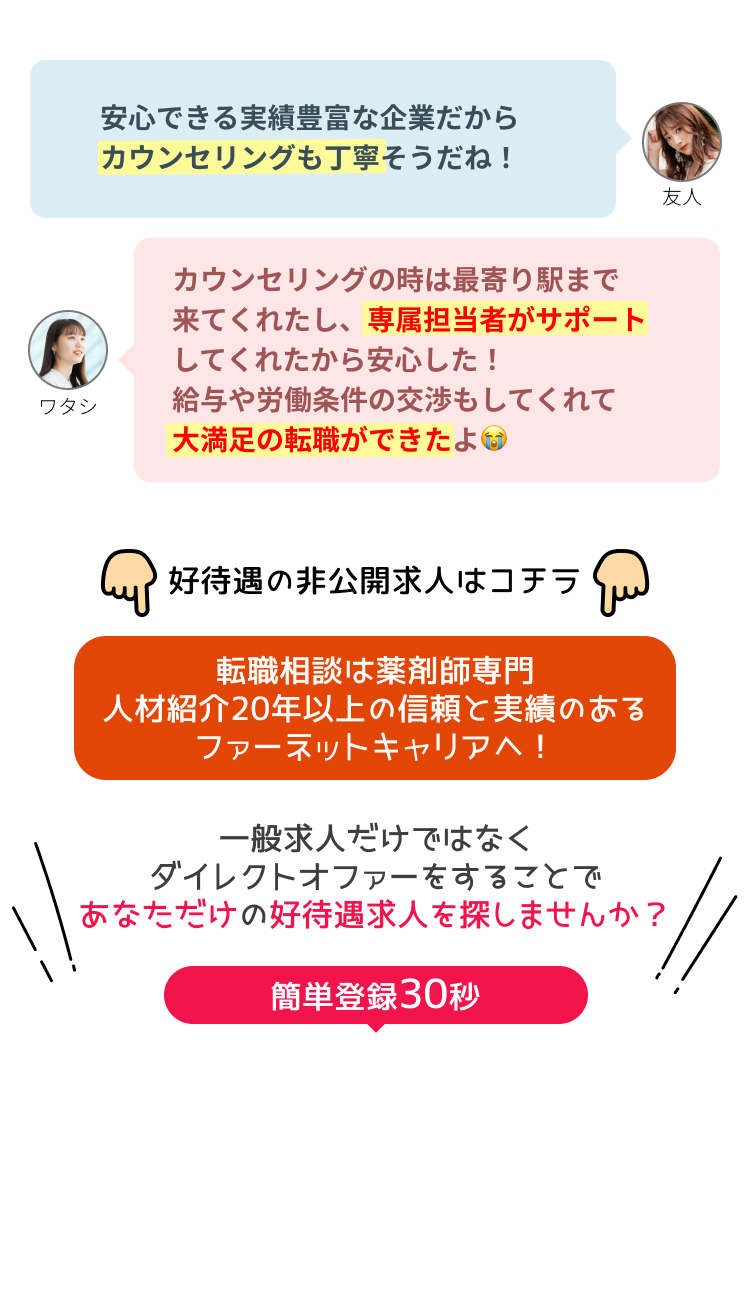
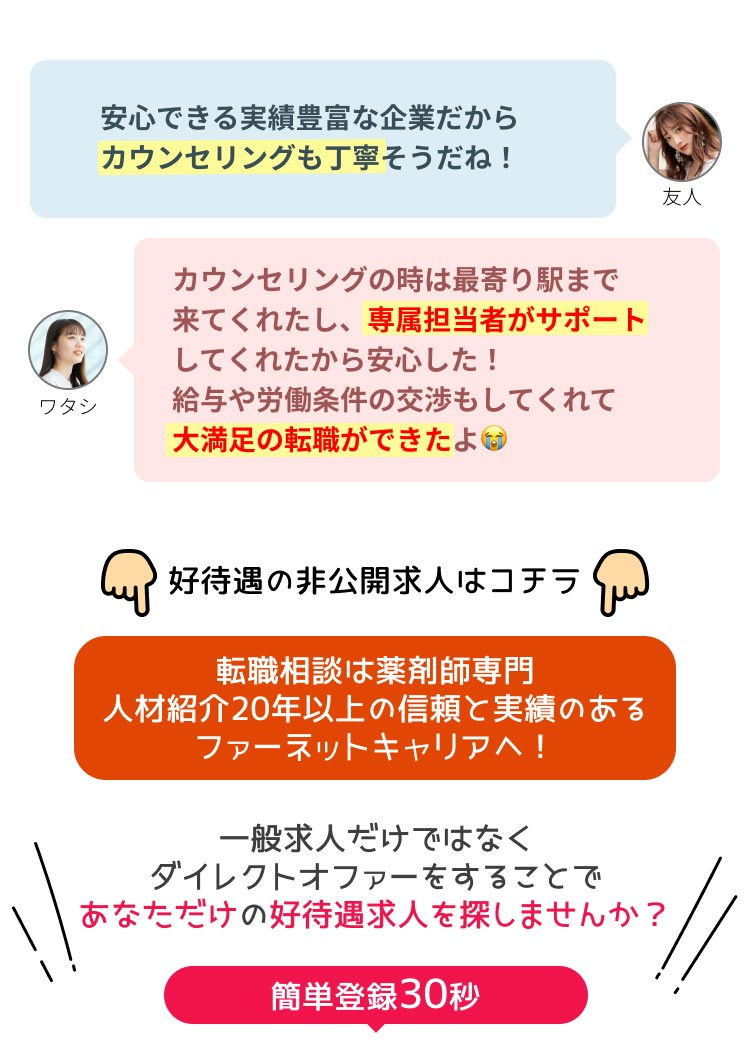
Add files via upload

diff --git a/style.css b/style.css
@@ -69,7 +69,7 @@ width /***/:auto;
 基本設定
 ************************************/
 body{
-    background-color: #FFEFD8;
+    background-color: white;
 }
 main{
     max-width: 750px;
@@ -79,19 +79,19 @@ section{
     object-fit: cover;
 }
 a:hover{
-    opacity:0.7;
+    cursor: pointer;
 }
 /************************************
 求人スライド１
 ************************************/
 .hikoukai-section{
-    background-image: url('./image/7_hikoukaikyujin.jpg');
-    background-repeat: no-repeat;
-    background-size: cover;
     position: relative;
-    height: 140vh;
-    background-position: center
+    display: flex;
+    align-items: center;
+    position: relative;
+    flex-direction: column;
 }
+
 #js-slider1{
     position: relative;
     overflow: hidden;
@@ -139,29 +139,65 @@ a:hover{
     background: url('image/migi.png') no-repeat center center;
     background-size: contain;
 }
+.slider-padding-box{
+    height: 10vh;
+    background-color:#ffe9c9;
+    width: 100%;
+}
 /************************************
 CTAセクション１
 ************************************/
 .cta-section1{
-    background-image: url('./image/11CTA.jpg');
-    background-position: center;
-    background-repeat: no-repeat;
-    background-size: cover;
-    height: 150vh;
     position: relative;
+    display: flex;
+    align-items: center;
+    position: relative;
+    flex-direction: column;
 }
-.cta-button1{
+.cta-section1-background{
+
+}
+.button-box1{
+    background-color: white;
+    width: 100%;
+    display: flex;
+    justify-content: center;
+    padding-bottom: 5%;
+    overflow: hidden;  /* 追加 */
+    position: relative; /* 追加 */
+}
+.cta-button {
+    width: 95%;
+    display: block;
+}
+.button-box1::before {
+    display: block;
+    content: '';
     position: absolute;
-      top: 90%;
-      left: 50%;
-      transform: translate(-50%, -50%);
-      width: 87%;
-      display: block;
-      height: 21vh;
-      z-index: 2;
-      background-image: url(./image/CTA.png);
-      background-size: cover;
-      background-position: center;
+    top: 0;
+    left: -100%;
+    width: 100%;
+    height: 100%;
+    background: linear-gradient(120deg, rgba(255, 255, 255, 0.1), rgba(255, 255, 255, 0.5), rgba(255, 255, 255, 0.1));
+    transform: skewX(-30deg);
+    transition: 200ms;
+    animation: shinyshiny 1s ease-in-out infinite;
+    z-index: 99;
+}
+.button-box1:hover::before {
+    animation: shinyshiny 0.2s;
+  }
+  
+  @keyframes shinyshiny {
+    100% {
+      left: 125%;
+    }
+  }
+
+@keyframes shinyshiny {
+    0% { left: -100%; }
+    50% { left: 150%; }
+    100% { left: 100%; }
 }
 /************************************
 求人スライド２
@@ -233,13 +269,19 @@ source{
 CTAセクション２
 ************************************/
 .cta-section2{
-    height: 70vh;
-    background-image: url('./image/CTA.jpg');
-    background-position: center;
-    background-repeat: no-repeat;
-    background-size: cover;
     position: relative;
+    display: flex;
+    align-items: center;
+    position: relative;
+    flex-direction: column;
+}
+.button-box2{
+    background-color: white;
     width: 100%;
+    display: flex;
+    justify-content: center;
+    overflow: hidden;  /* 追加 */
+    position: relative; /* 追加 */
 }
 .cta-button2{
     position: absolute;
@@ -253,6 +295,28 @@ CTAセクション２
       background-image: url(./image/CTA.png);
       background-size: cover;
       background-position: center;
+}
+.button-box2::before {
+    display: block;
+    content: '';
+    position: absolute;
+    top: 0;
+    left: -100%;
+    width: 100%;
+    height: 100%;
+    background: linear-gradient(120deg, rgba(255, 255, 255, 0.1), rgba(255, 255, 255, 0.5), rgba(255, 255, 255, 0.1));
+    transform: skewX(-30deg);
+    transition: 200ms;
+    animation: shinyshiny 1s ease-in-out infinite;
+    z-index: 99;
+}
+.button-box2:hover::before {
+    animation: shinyshiny 0.2s;
+  }
+
+.blank-section{
+    width: 100%;
+    height: 1vh;
 }
 /************************************
 SP
@@ -275,7 +339,7 @@ SP
         font-size: 1.5rem;
     }
     .cta-section1{
-        height: 80vh;
+        width: 100%;
     }
     .cta-button1{
         width: 95%;
@@ -294,7 +358,7 @@ SP
         height: 90vh;
     }
     .cta-section1{
-        height: 100vh;
+
     }
     .cta-button1{
         height: 14vh;
@@ -306,7 +370,7 @@ SP
 
 @media (max-width: 391px) {
     .cta-section1 {
-        height: 80vh;
+
     }
     .cta-button1 {
         height: 11.7vh;

diff --git a/index.html b/index.html
@@ -40,11 +40,15 @@
             <img src="./image/6kaiwa.jpg" alt="画像">
         </section>
         <section class="hikoukai-section">
+            <div class ="hikoukai-background"><img src="./image/7_hikoukaikyujin.jpg"></div>
             <ul class="slider" id="js-slider2">
                 <li><img src="./image/sample_kyujin2_1.jpg" alt="サンプル1"></li>
                 <li><img src="./image/sample_kyujin2_2.jpg" alt="サンプル1"></li>
                 <li><img src="./image/sample_kyujin2_3.jpg" alt="サンプル1"></li>
             </ul>
+            <div class ="slider-padding-box">
+                
+            </div>
         </section>
         <section>
             <img src="./image/8why.jpg" alt="画像">
@@ -52,8 +56,11 @@
         <section>
             <img src="./image/9merit.jpg" alt="画像">
         </section>
-        <section class="cta-section1">
-            <a href="" class="cta-button1"></a>
+        <section class ="cta-section1">
+            <div class ="cta-section1-background"><img src="./image/11CTA.jpg"></div>
+            <a class="button-box1">
+                <img src="image/CTA.png" class="cta-button">
+            </a>
         </section>
         <section>
             <img src="./image/12kutikomi.jpg" alt="画像">
@@ -73,8 +80,12 @@
             <img src="./image/15yokata.jpg" alt="画像">
         </section>
         <section class="cta-section2">
-            <a href="" class="cta-button2"></a>
+            <div class ="cta-section1-background"><img src="./image/CTA.jpg"></div>
+            <a class="button-box2">
+                <img src="image/CTA.png" class="cta-button">
+            </a>
         </section>
+        <section class="blank-section"></section>
     </main>
 
     <script src="https://code.jquery.com/jquery-3.7.1.js" integrity="sha256-eKhayi8LEQwp4NKxN+CfCh+3qOVUtJn3QNZ0TciWLP4=" crossorigin="anonymous"></script>
